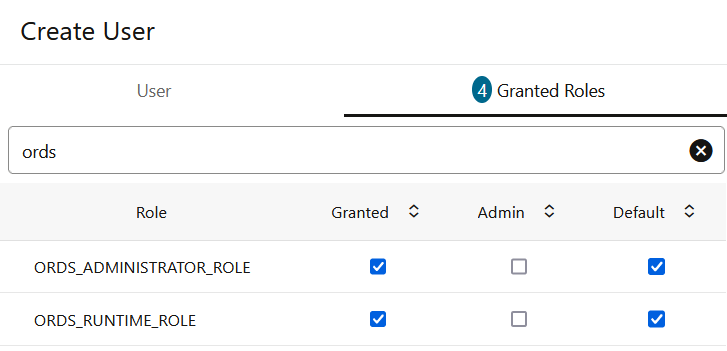
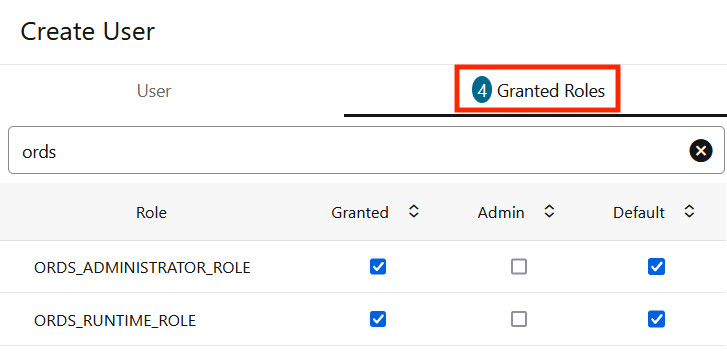
11381 - Post review changes  (#287)
* Changes post review

These changes are the ones which were found during the initial review of the lab.

* Change to display special characters

Changed region(s): [[0.6052, 0.1709, 0.8776, 0.3419]]

diff --git a/json-duality-adb-free/setup-environment/setup-environment.md b/json-duality-adb-free/setup-environment/setup-environment.md
@@ -36,7 +36,7 @@ This lab assumes you have:
 
     ![Image alt text](images/reservation-info.png " ")
 
-4. Use **Oracle Cloud Infrastructure Direct Sign-in** to paste the password you copied. When you log-in for the first time, it will ask you to update the password. Write down in your notes the new password.
+4. Use **Oracle Cloud Infrastructure Direct Sign-in** to paste the password you copied. When you log-in for the first time, it will ask you to update the password. Write down in your notes the new password. Also make a note of the compartment name.
 
     ![Image alt text](images/oci-sing-in.png " ")
 
@@ -44,7 +44,7 @@ This lab assumes you have:
 
     ![Image alt text](images/main-menu.png " ")
 
-6. Select your reservation **Compartment** on the left side drop-down, and click on your Autonomous Database instance name.
+6. Select your reservation **Compartment** on the left side drop-down, and click on your Autonomous Database instance name. Your compartment name is the same which was noted from the reservation information screen.
 
     ![Image alt text](images/adb-instance.png " ")
 
@@ -64,7 +64,7 @@ This lab assumes you have:
 
     ![Image alt text](images/create-user.png " ")
 
-11. Click **Granted Roles**. Add ORDS_ADMINISTRATOR_ROLE, ORDS_RUNTIME_ROLE as Granted and Default.
+11. Click **Granted Roles**. Add ```ORDS_ADMINISTRATOR_ROLE```, ```ORDS_RUNTIME_ROLE``` as Granted and Default.
 
     ![Image alt text](images/granted-roles.png " ")
 
@@ -84,11 +84,13 @@ This lab assumes you have:
 
     ![Image alt text](images/hol23ai-sign-in.png " ")
 
-16. Click **SQL** worksheet button under Development.
+16. Click **SQL** worksheet button under Development and Click **Open*.
 
     ![Image alt text](images/development-sql.png " ")
 
 17. As you go through this workshop, we will specify click the Run button or Run Script button. The Run button runs just one SQL Statement and formats the output into a data grid. The Run Script button runs many SQL statements and spools their output. We will highlight which to use.
+
+    **NOTE**: If you are using mac, then select the code and use 'cmd+enter' to run the command individually.
 
     ![Image alt text](images/run-sql-script.png " ")
  
@@ -207,6 +209,8 @@ This lab assumes you have:
 5. Create a duality view for the race table. Notice that we are using 3 different tables to create one view. We are also using the `UNNEST` command to unnest the information from the driver table into the sub-object `result` instead of it being another sub-object within that same field. 
 
     **NOTE:** Make sure to press 'enter' after copy and pasting the code block so that view is created.
+
+    **NOTE**: Worksheet might show errors in the code, but they can be ignored.
 
     ```sql
     SQL> <copy>CREATE OR REPLACE JSON RELATIONAL DUALITY VIEW race_dv AS

diff --git a/json-duality-adb-free/populate-dv/populate-dv.md b/json-duality-adb-free/populate-dv/populate-dv.md
@@ -37,8 +37,16 @@ This lab assumes you have:
 
     ```
     $ <copy>mkdir json-autorest</copy>
+    ```
+    
+    ``` 
     $ <copy>cd json-autorest</copy>
+    ```
+    
+    ```
     $ <copy>wget -O json_autorest.zip https://objectstorage.eu-frankfurt-1.oraclecloud.com/p/Tjh1Lpwt8gDG458HW4aPKL240xohfcD_j4pUNMZhQuVXdrHndzrqEeuNX2F836BS/n/oraclepartnersas/b/WS-files/o/DualityWS/json_autorest.zip</copy>
+    ```
+    ```
     $ <copy>unzip json_autorest.zip</copy>
     ```
 
